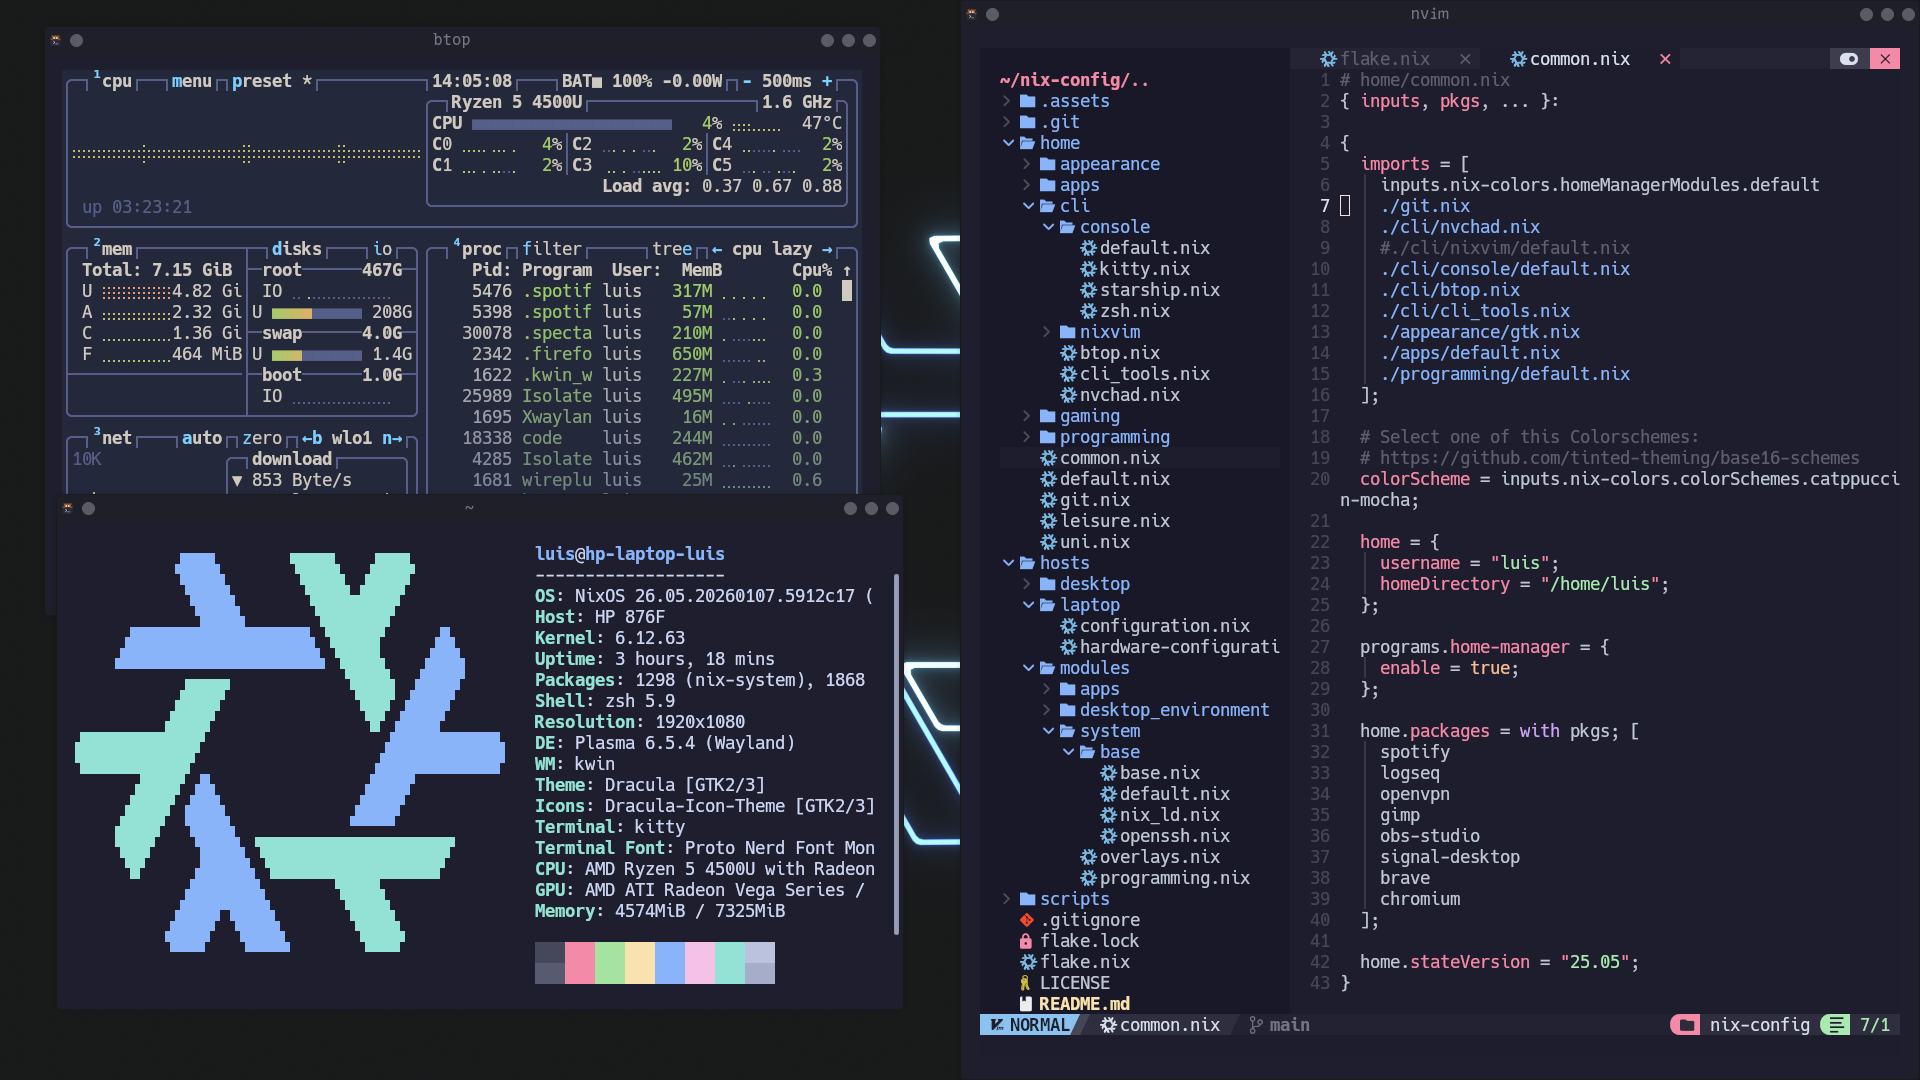
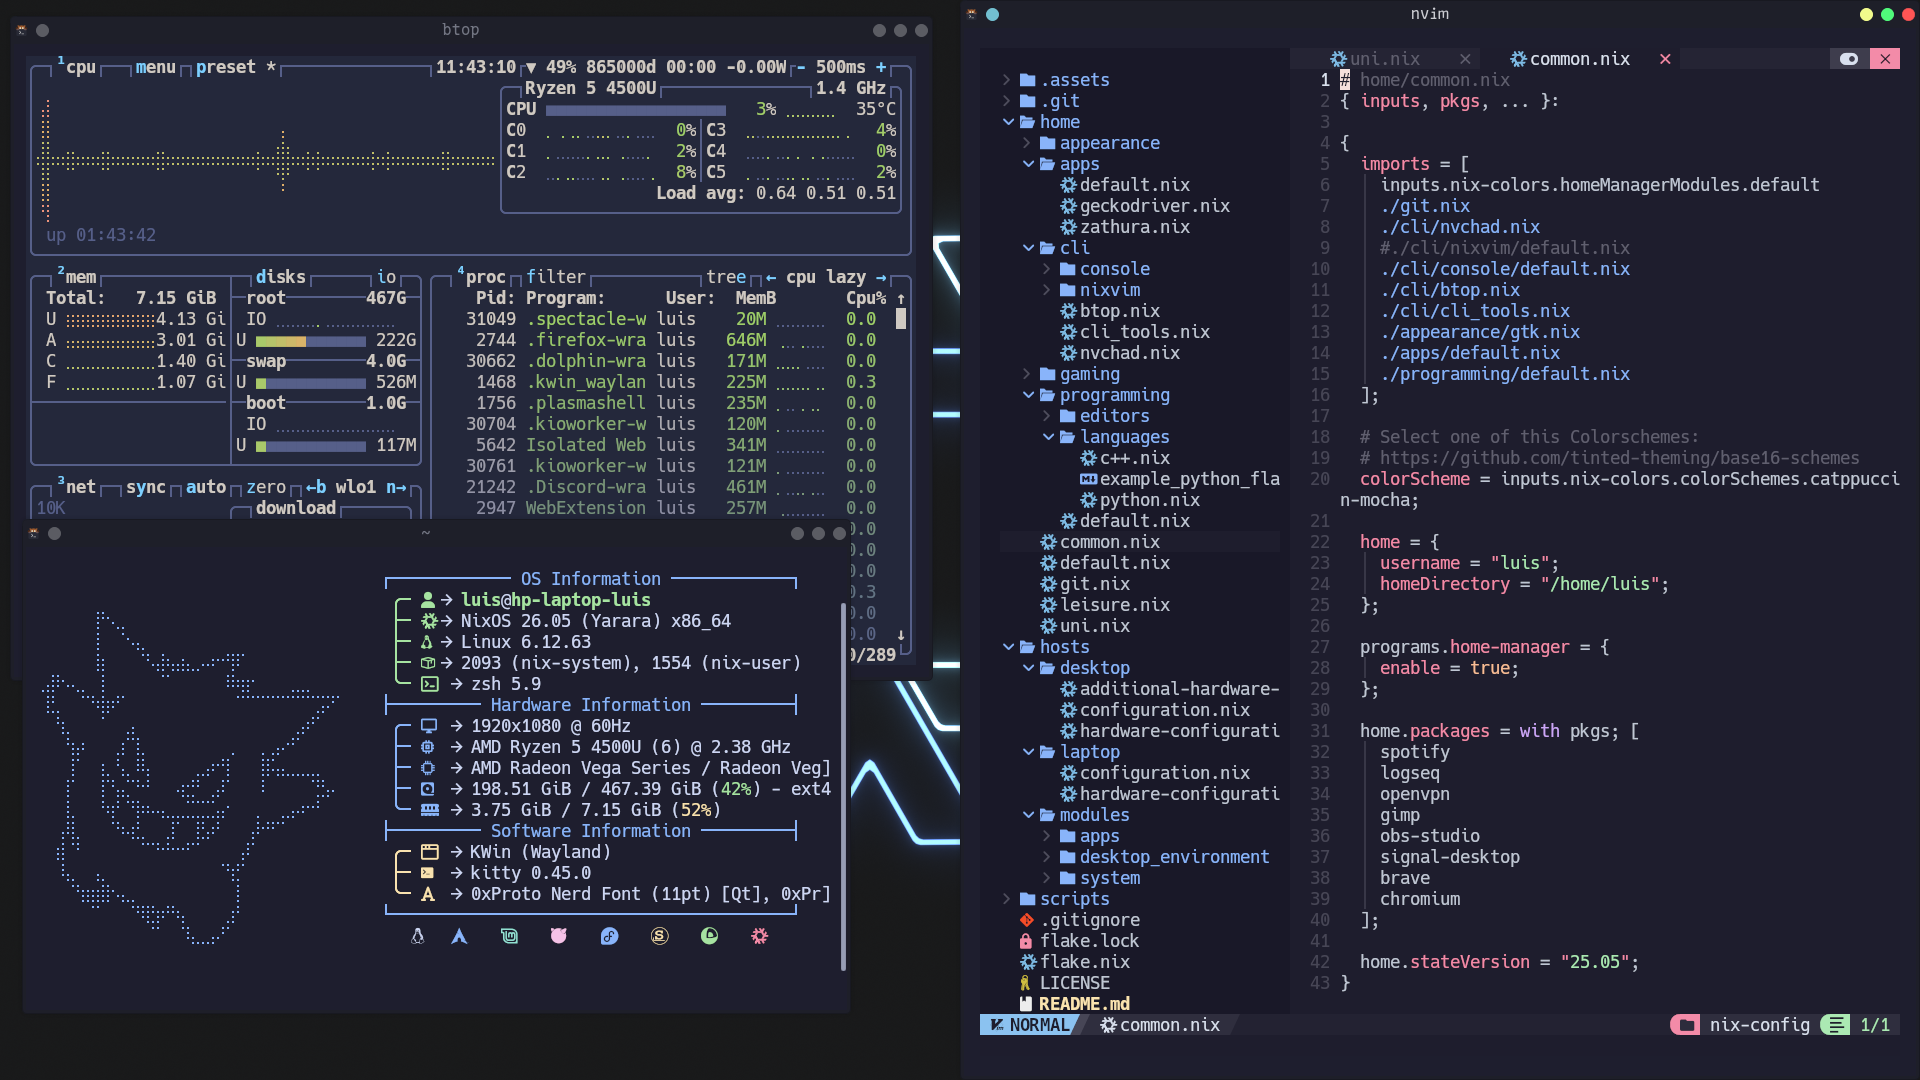
updated Readme

diff --git a/README.md b/README.md
@@ -41,9 +41,13 @@ sudo nixos-rebuild switch --flake .#laptop
 │   │   ├── cli_tools.nix
 │   │   ├── console
 │   │   │   ├── default.nix
+│   │   │   ├── fastfetch.nix
+│   │   │   ├── fastfetch_logo
+│   │   │   │   └── gengar.txt
 │   │   │   ├── kitty.nix
 │   │   │   ├── starship.nix
 │   │   │   └── zsh.nix
+│   │   ├── nixvim
 │   │   │   ├── colorscheme.nix
 │   │   │   ├── default.nix
 │   │   │   ├── keymaps.nix
@@ -58,9 +62,12 @@ sudo nixos-rebuild switch --flake .#laptop
 │   │   │   │   └── treesitter.nix
 │   │   │   └── README.md
 │   │   └── nvchad.nix
+│   ├── common.nix
+│   ├── default.nix
 │   ├── gaming
 │   │   ├── default.nix
 │   │   └── proton.nix
+│   ├── git.nix
 │   ├── leisure.nix
 │   ├── programming
 │   │   ├── default.nix
@@ -89,11 +96,14 @@ sudo nixos-rebuild switch --flake .#laptop
 │       │   ├── budgie.nix
 │       │   ├── gnome.nix
 │       │   └── kdeplasma6.nix
-│       ├── system
-│       │   ├── base.nix
-│       │   ├── overlays.nix
-│       │   └── programming.nix
-│       └── tmp_programs.nix
+│       └── system
+│           ├── base
+│           │   ├── base.nix
+│           │   ├── default.nix
+│           │   ├── nix_ld.nix
+│           │   └── openssh.nix
+│           ├── overlays.nix
+│           └── programming.nix
 ├── LICENSE
 ├── README.md
 └── scripts
